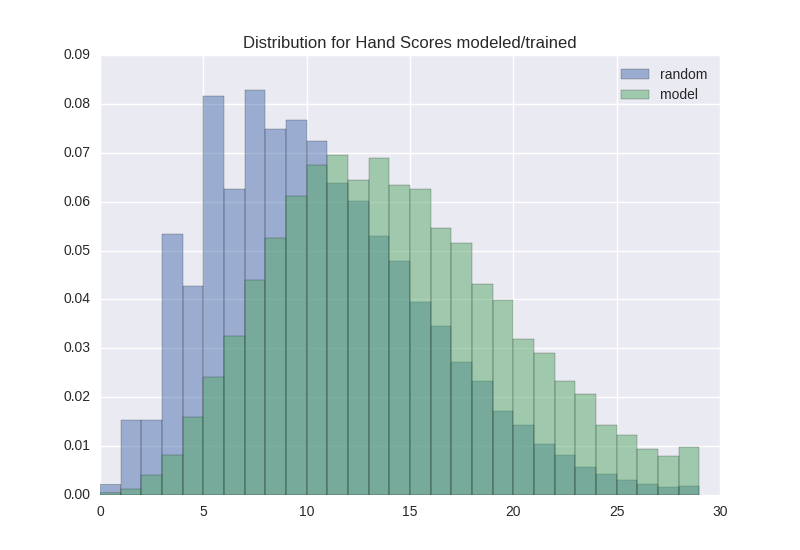
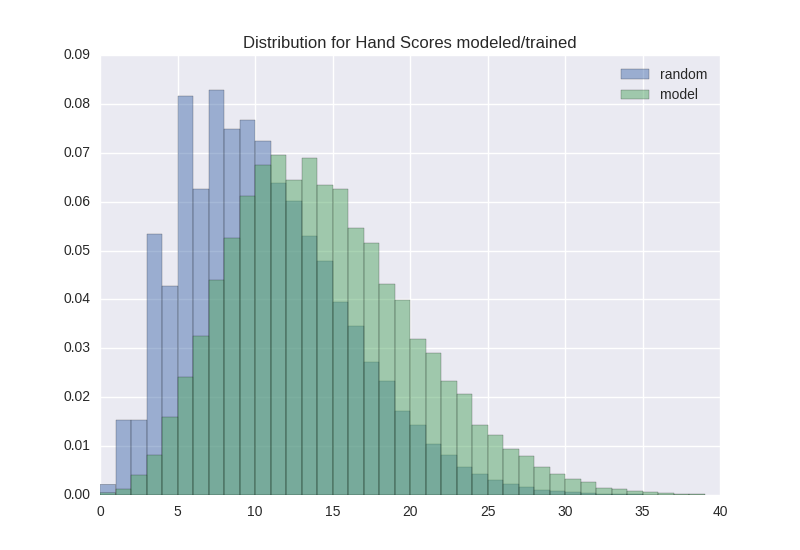
moved generate_graphs into class format.  Added samping for full game and graph

Changed region(s): [[0.125, 0.1545, 0.875, 0.9582]]

diff --git a/graphs/generate_graphs.py b/graphs/generate_graphs.py
@@ -6,38 +6,88 @@ import seaborn as sns
 from models.generate_hand_models import GenerateHandModel
 from models.generate_peg_models import GeneratePegModel
 
-def compare_distributions(file1, file2, plot_title, saveloc):
-    """
-    Compares distribution of scores from two files and saves a graph plotting
-    the score distributions between the two.
+class PlotDistributions(object):
+    def __init__(self):
+        self.average_scores = [None, None]
+        self.distr = [None, None]
+        self.iterations = 100000
 
-    INPUT: Two file locations, a title for the plot, and the save location
-    OUTPUT: Histogram saved to the save location
-    """
-    df_1 = pd.read_csv(file1)
-    df_1_label = file1.split('/')[-2]
-    df_2 = pd.read_csv(file2)
-    df_2_label = file2.split('/')[-2]
-    plt.clf()
-    if plot_title == 'Hand Scores':
-        bins = range(0,30,1)
-    else:
-        bins = range(0,10,1)
-    weights = np.ones_like(df_1['score'].values) / float(len(df_1['score']))
-    df_1['score'].hist(bins=bins, label=df_1_label, weights=weights, alpha=0.5)
-    weights = np.ones_like(df_2['score'].values) / float(len(df_2['score']))
-    df_2['score'].hist(bins=bins, label=df_2_label, weights=weights, alpha=0.5)
-    plt.title('Distribution for %s modeled/trained' % (plot_title))
-    plt.legend()
-    plt.savefig(saveloc)
+    def get_distr_x(self, cnt, bin_vals, const):
+        """
+        Run a simulation for a specific number of rounds to simulate a full
+        game.
+        INPUT: counts(proportion), and the bin_vals(point values),
+        and const(average number of rounds needed to complete a game)
+        OUTPUT: score of game (mean of experimental model should be 120)
+        """
+        cnt = np.append(cnt, 1-sum(cnt))
+        sel = [np.random.choice(bin_vals, p=cnt) for _ in range(int(const))]
+        sel.append(np.random.choice(bin_vals, p=cnt) * (const % 1))
+        return sum(sel)
 
+    def compare_distributions(self, file1, file2, plot_title, saveloc):
+        """
+        Compares distribution of scores from two files and saves a graph plotting
+        the score distributions between the two for single peg and hand models.
+        Also runs the simulation to get the distribution of a full game using
+        both models and stores in object.
+        Note:  The ABT for the hand_model already includes peg scores.
+        We don't do anything with the peg model to run the distribution as it
+        was already incoporated when generating data
+
+        INPUT: Two file locations, a title for the plot, and the save location
+        OUTPUT: Histogram saved to the save location
+        """
+        df_1 = pd.read_csv(file1)
+        self.df_1_label = file1.split('/')[-2]
+        df_2 = pd.read_csv(file2)
+        self.df_2_label = file2.split('/')[-2]
+        plt.clf()
+        if plot_title == 'Hand Scores':
+            bins = range(0,40,1)
+        else:
+            bins = range(0,10,1)
+        weights = np.ones_like(df_1['score'].values) / float(len(df_1['score']))
+        counts_0, bin_vals_0, _ = plt.hist(df_1['score'], bins=bins, label=self.df_1_label, weights=weights, alpha=0.5)
+        self.average_scores[0] = sum([cnt * bv for cnt, bv in zip(counts_0, bin_vals_0[:-1])]) / sum(counts_0)
+
+        weights = np.ones_like(df_2['score'].values) / float(len(df_2['score']))
+        counts_1, bin_vals_1, _ = plt.hist(df_2['score'], bins=bins, label=self.df_2_label, weights=weights, alpha=0.5)
+        self.average_scores[1] = sum([cnt * bv for cnt, bv in zip(counts_1, bin_vals_1[:-1])]) / sum(counts_1)
+
+        const = 120 / self.average_scores[1]
+        if plot_title == 'Hand Scores':
+            self.distr[0] = [self.get_distr_x(counts_0, bin_vals_0, const) for _ in range(self.iterations)]
+            self.distr[1] = [self.get_distr_x(counts_1, bin_vals_1, const) for _ in range(self.iterations)]
+        plt.title('Distribution for %s modeled/trained' % (plot_title))
+        plt.legend()
+        plt.savefig(saveloc)
+    def plot_full_game_distributions(self, saveloc):
+        """
+        Plot the distributions for full hand.
+        """
+        bins = range(0,160,1)
+        plt.clf()
+        for i, label in enumerate([self.df_1_label, self.df_2_label]):
+            weights = np.ones_like(self.distr[i]) / float(len(self.distr[i]))
+            plt.hist(self.distr[i], label=label, weights=weights, bins=bins, alpha=0.5)
+        plt.vlines(90, 0, 0.04, label="SKUNK", colors='#3d3d29')
+        plt.vlines(60, 0, 0.04, label="2XSKUNK")
+        plt.vlines(120, 0, 0.04, label="Finish Line", colors='#000099')
+        plt.ylim(0,0.03)
+        plt.title('Distribution for full game')
+        plt.legend()
+        plt.savefig(saveloc)
 
 def main():
-    compare_distributions('data/logs/random/hand_base_table.txt',
+    pd = PlotDistributions()
+
+    pd.compare_distributions('data/logs/random/hand_base_table.txt',
                             'data/logs/model/hand_base_table.txt',
                             plot_title='Hand Scores',
                             saveloc='graphs/hand_score_distribution.png')
-    compare_distributions('data/logs/random/peg_base_table.txt',
+    pd.plot_full_game_distributions(saveloc='graphs/full_game_distribution.png')
+    pd.compare_distributions('data/logs/random/peg_base_table.txt',
                             'data/logs/model/peg_base_table.txt',
                             plot_title='Peg Scores',
                             saveloc='graphs/peg_score_distribution.png')
